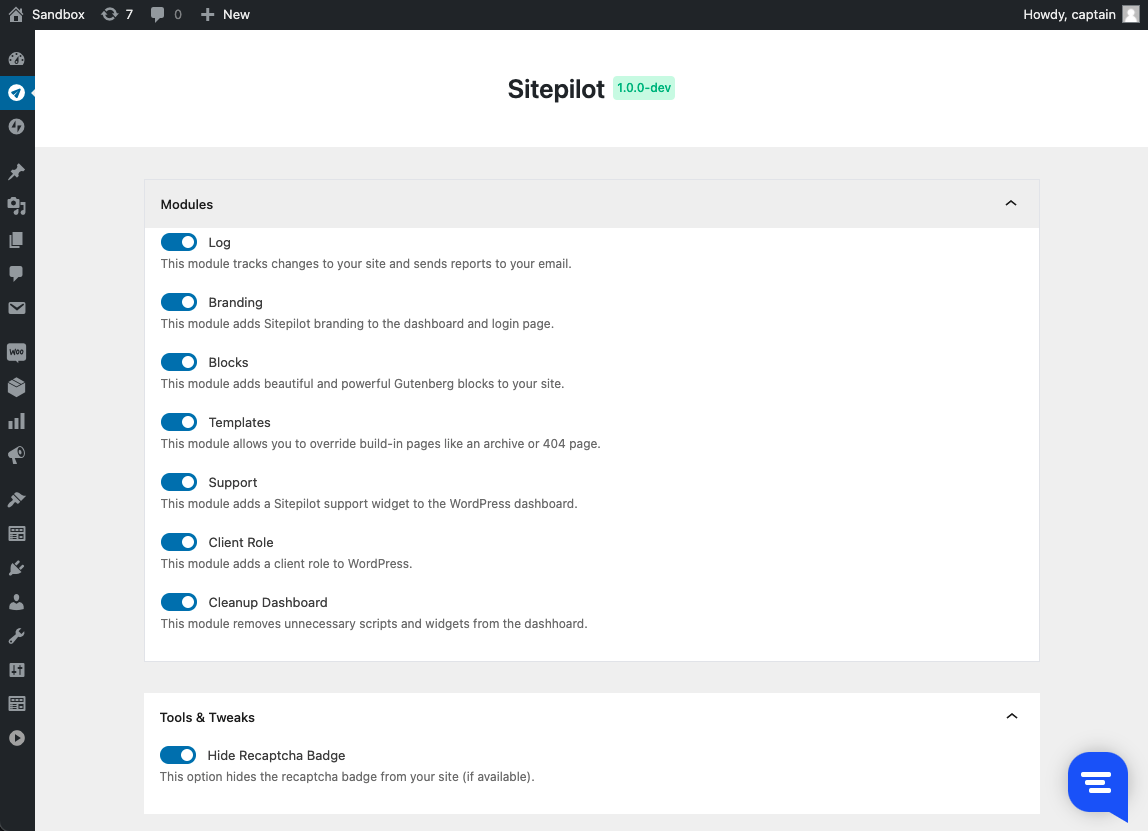
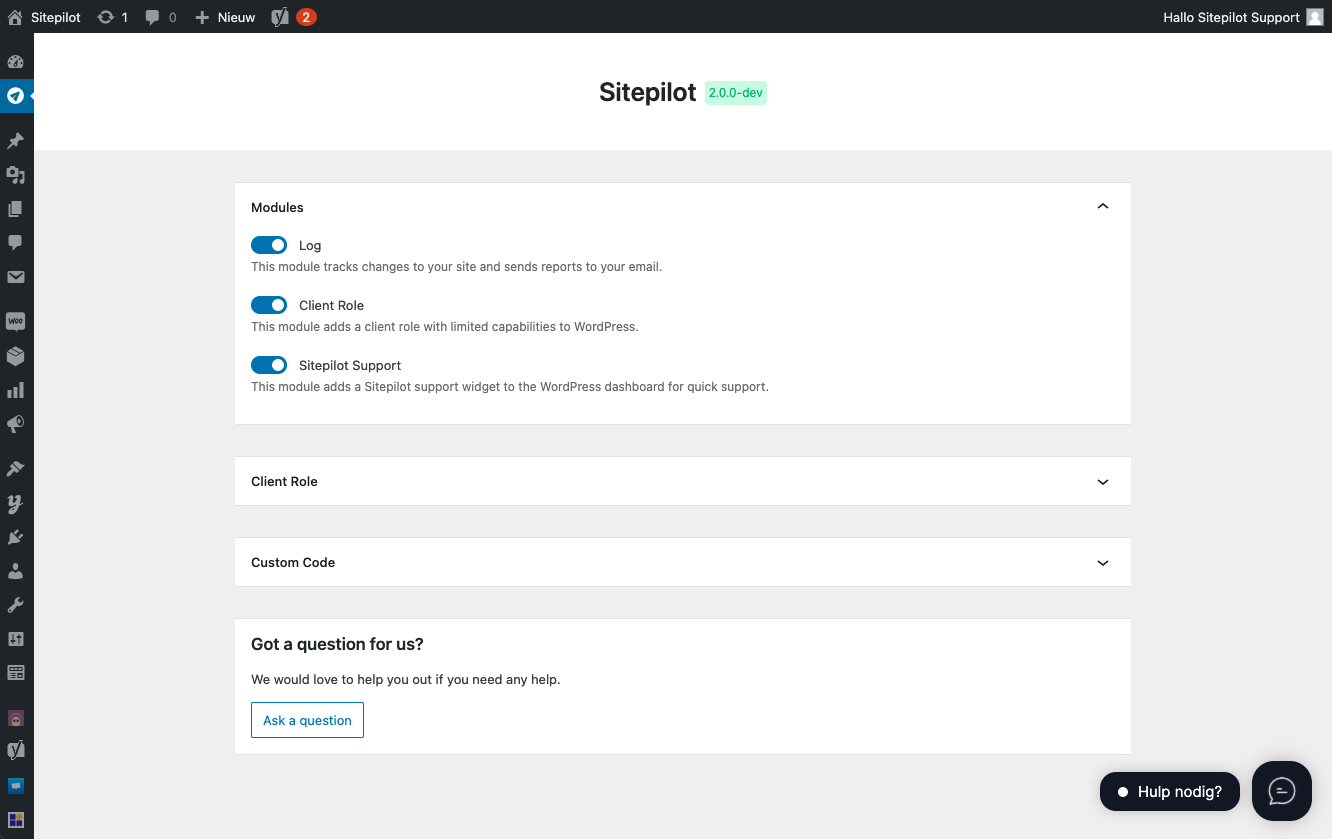
Update README.md

diff --git a/README.md b/README.md
@@ -6,18 +6,77 @@ Brings the powers of Sitepilot directly to your WordPress website. It will revol
 
 ![Screenshot](./screenshot.png)
 
-## Modules
+## Features
 
-* Log: track changes to your site and sends reports to your email.
-* Blocks: add beautiful and powerful Gutenberg blocks to your site.
-* Templates: override build-in pages like an archive or 404 page.
+* Log: tracks changes to your site and sends reports to your email.
 * Client Role: add a client role with limited capabilities to your site.
-* Cleanup Dashboard: remove unnecessary scripts and widgets from the dashhoard.
-* Branding: add Sitepilot branding to the dashboard and login page.
-* Support: add a Sitepilot support widget to the dashboard for quick WordPress support.
-
-## Tools
-
-* Hide Recaptcha Badge: hide recaptcha badge from the fronend of your site.
 * Custom Code: add custom code to the WordPress head, body and footer.
+* Sitepilot Support: add a Sitepilot support widget to the WordPress dashboard for quick support.
 
+## Developer Tools
+
+All developer modules and tools are disabled by default. You can use these modules to speedup WordPress development and give your clients a better WordPress experience. Use WordPress filters to enable a module and change its settings.
+
+### Blocks
+
+This module enables a powerfull library for registering blocks and block fields with PHP and rendering block views using Blade. The plugin will search for blocks in your theme's `blocks` folder and registers them using ACF. You can find some examples [here](blocks).
+
+Add the following filter to your theme to activate this module:
+
+```php
+add_filter('sp_blocks_enabled', '__return_true');
+```
+
+Each loaded block is also available using a shortcode:
+
+```
+[sp-example-block title="Lorem ipsum"]
+```
+
+*Requires: [Advanced Custom Fields Pro](https://www.advancedcustomfields.com/)*
+
+### Templates
+
+This module will register a template custom post type and replaces default theme templates by searching for template slugs. This allows your client to edit these pages using the WordPress editor and without changing theme code.
+
+Examples:
+  * A template with slug `404` will replace the default 404 template.
+  * A template with slug `home` will replace the default blog posts template.
+  * A template with slug `search` will replace the default search page template.
+  * A template with slug `product` will replace the default product page template.
+  * A template with slug `{post-type}` will replace the default single post type template.
+  * A template with slug `archive-{post-type}` will replace the default post type archive template.
+
+Add the following filter to your theme to activate this module:
+
+```php
+add_filter('sp_templates_enabled', '__return_true');
+```
+
+### Filters
+
+#### Branding
+
+* `sp_branding_name` - string - the branding name.
+* `sp_branding_logo` - string - the branding logo url.
+* `sp_branding_support_url` - string - the branding support url.
+* `sp_branding_support_email` - string - the branding support email.
+* `sp_branding_support_widget` - string - the branding support widget script.
+* `sp_branding_login_enabled` - boolean - replace the default WordPress login logo with the branding logo.
+* `sp_branding_wp_head_enabled` - boolean - add a powered by text to the site's `<head>`.
+* `sp_branding_admin_bar_enabled` - boolean - remove the WordPress logo from the admin bar.
+* `sp_branding_admin_footer_enabled` - boolean - add a powered by text to the admin footer.
+
+#### Appearance
+
+Register CSS variables which you can use in your stylesheets. Registered colors are also added to the WordPress block editor.
+
+* `sp_color_primary` - array(name, color) - the primary theme color (CSS variable: `--sp-color-primary`).
+* `sp_color_secondary` - array(name, color) - the secondary theme color (CSS variable: `--sp-color-secondary`).
+* `sp_color_third` - array(name, color) - the third theme color (CSS variable: `--sp-color-third`).
+* `sp_color_fourth` - array(name, color) - the fourth theme color (CSS variable: `--sp-color-fourth`).
+* `sp_container_width` - string - the theme's max container width (CSS variable: `--sp-container-width`).
+
+#### Other
+
+* `sp_hide_recaptcha_badge` - boolean - hide reacaptcha badge.
